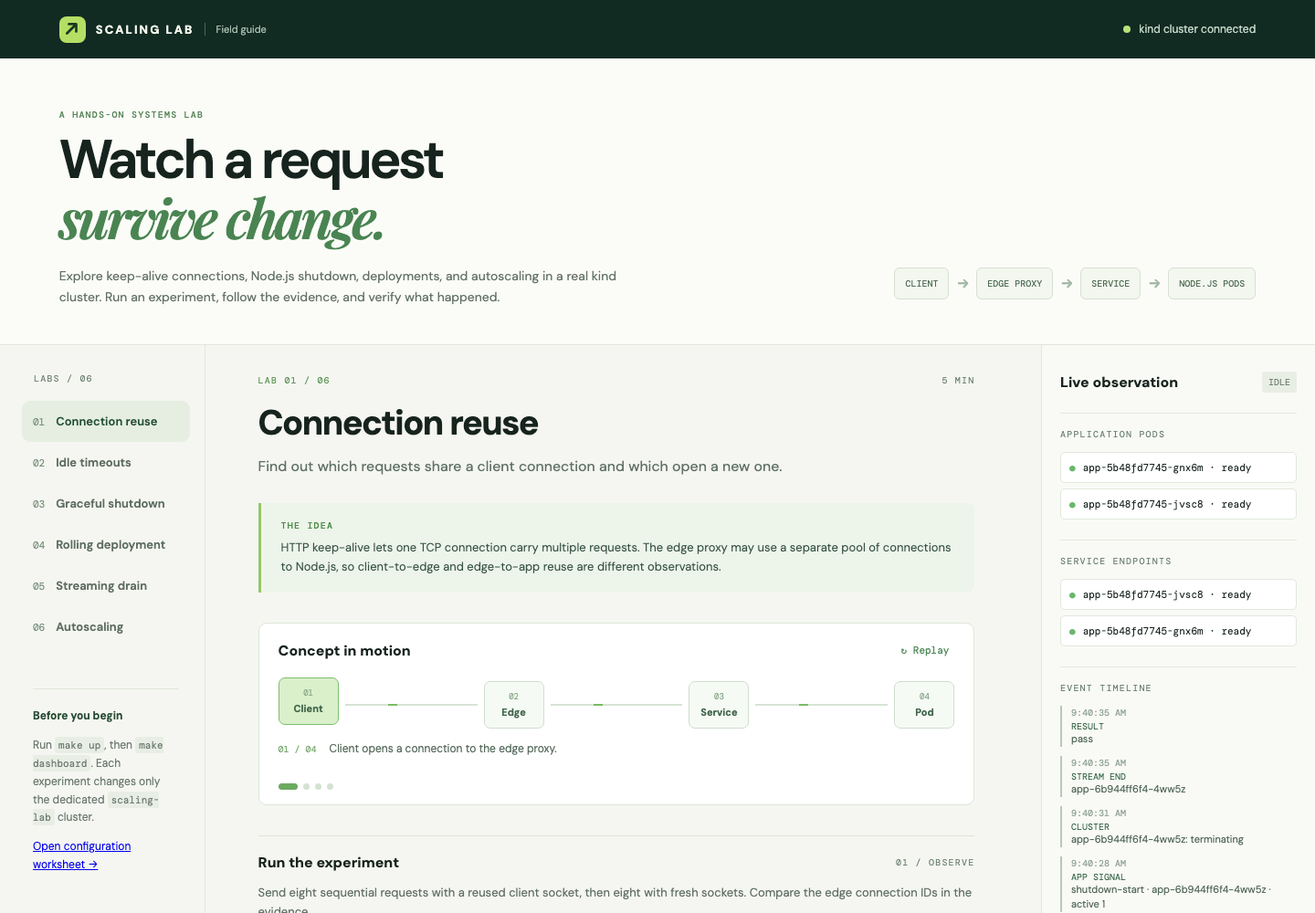
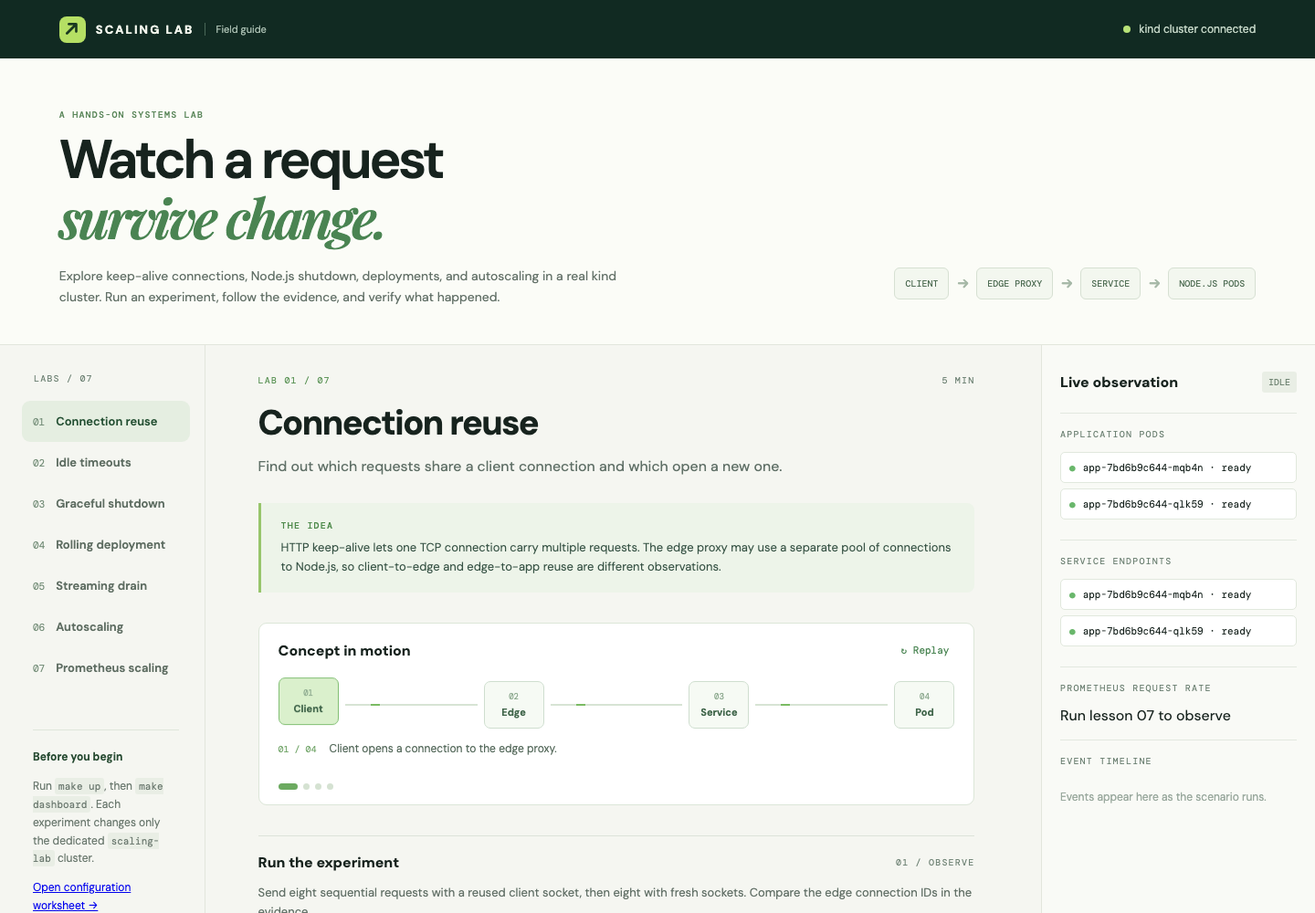
Add Prometheus request-rate autoscaling lab

diff --git a/dashboard/app.js b/dashboard/app.js
@@ -4,12 +4,13 @@ const lessons = [
   { id:'shutdown', title:'Graceful shutdown', time:'2 MIN', intro:'Delete the exact pod serving a long request while new requests continue.', concept:'Pod termination starts a grace deadline. The preStop hook runs before SIGTERM and consumes part of that deadline. Node.js can stop accepting new work while active HTTP requests finish.', task:'Choose graceful or abrupt exit. The runner starts an eight-second request, reads its pod ID, and deletes that pod. Watch the long request and background traffic.', quiz:'Does a failed readiness probe finish requests already in flight?', answers:['Yes, it closes them','No, the application must finish them'], correct:1, why:'Readiness affects endpoint selection for new traffic. The application controls active requests.' },
   { id:'rollout', title:'Rolling deployment', time:'2 MIN', intro:'Replace the application pods while a stream of requests keeps arriving.', concept:'A Deployment can start an extra pod before stopping an old one. Readiness gates traffic to new pods; the shutdown path matters when old pods are removed.', task:'Start a rolling update with maxSurge 1 and maxUnavailable 0. Verify that new pod IDs appear and sampled requests keep succeeding.', quiz:'What does maxUnavailable: 0 require during a rollout?', answers:['No pod may terminate','The required number of available replicas is maintained'], correct:1, why:'Old pods may terminate once replacement capacity becomes available.' },
   { id:'streaming', title:'Streaming drain', time:'2 MIN', intro:'Delete a pod while it is sending a response in pieces.', concept:'A streaming response stays active much longer than a fast JSON response. Graceful shutdown must allow it to finish or set an explicit stream policy and deadline.', task:'Start a 20-tick stream, delete its pod after the first ticks, and verify that every tick arrives before the process exits.', quiz:'Does server.close() instantly terminate an active HTTP stream?', answers:['Yes, it closes all sockets','No, the active response can continue'], correct:1, why:'Node.js stops new connections and waits for active HTTP requests; the shutdown deadline can still force an exit.' },
-  { id:'autoscale', title:'Autoscaling', time:'4 MIN', intro:'Apply CPU load, then watch the HPA add and remove application replicas.', concept:'CPU utilization for HPA is measured relative to container CPU requests. Metrics collection and HPA reconciliation take time; scale down also waits through a stabilization window.', task:'Install metrics-server and enable the HPA with make hpa-up. Run sustained CPU load, then keep sending light traffic as replicas scale down.', quiz:'If the app has no CPU request, can a CPU utilization target be calculated?', answers:['Yes, from the CPU limit','No, utilization needs a request'], correct:1, why:'The HPA uses the resource request as the denominator for CPU utilization.' }
+  { id:'autoscale', title:'Autoscaling', time:'4 MIN', intro:'Apply CPU load, then watch the HPA add and remove application replicas.', concept:'CPU utilization for HPA is measured relative to container CPU requests. Metrics collection and HPA reconciliation take time; scale down also waits through a stabilization window.', task:'Install metrics-server and enable the HPA with make hpa-up. Run sustained CPU load, then keep sending light traffic as replicas scale down.', quiz:'If the app has no CPU request, can a CPU utilization target be calculated?', answers:['Yes, from the CPU limit','No, utilization needs a request'], correct:1, why:'The HPA uses the resource request as the denominator for CPU utilization.' },
+  { id:'prometheus', title:'Prometheus scaling', time:'5 MIN', intro:'Scale from observed HTTP request rate instead of CPU usage.', concept:'Each pod exposes a request counter. Prometheus scrapes those counters and calculates requests per second with PromQL. KEDA reads that query as an external metric and supplies it to a Kubernetes HPA.', task:'Run make prometheus-up first. The experiment sends request traffic, then reduces it. Follow the Prometheus rate, HPA desired replicas, and pod count through scale up and scale down.', quiz:'Which component turns the Prometheus query into a scaling metric for the HPA?', answers:['Prometheus itself','KEDA metrics API server'], correct:1, why:'KEDA queries Prometheus and exposes an external metric. The HPA uses that metric to choose replicas.' }
 ];
 const $ = id => document.getElementById(id);
 let current = 0, lastEventCount = 0;
 function escape(s){return String(s ?? '').replace(/[&<>"']/g,c=>({'&':'&amp;','<':'&lt;','>':'&gt;','"':'&quot;',"'":'&#39;'}[c]));}
-function select(index){current=index;const l=lessons[index];$('lessons').innerHTML=lessons.map((x,i)=>`<button class="lesson-link ${i===index?'active':''}" data-index="${i}"><span class="num">0${i+1}</span>${escape(x.title)}</button>`).join('');document.querySelectorAll('.lesson-link').forEach(x=>x.onclick=()=>select(Number(x.dataset.index)));$('lesson-number').textContent=`LAB 0${index+1} / 06`;$('lesson-time').textContent=l.time;$('lesson-title').textContent=l.title;$('lesson-intro').textContent=l.intro;$('lesson-concept').textContent=l.concept;$('lesson-task').textContent=l.task;$('options').innerHTML=l.id==='shutdown'?'<label class="option-row">Shutdown mode <select id="mode"><option value="graceful">Graceful</option><option value="abrupt">Abrupt (failure demonstration)</option></select></label>':'';$('quiz-question').textContent=l.quiz;$('quiz-options').innerHTML=l.answers.map((x,i)=>`<button class="quiz-choice" data-answer="${i}">${escape(x)}</button>`).join('');$('quiz-feedback').textContent='';document.querySelectorAll('.quiz-choice').forEach(x=>x.onclick=()=>{const right=Number(x.dataset.answer)===l.correct;x.classList.add(right?'correct':'wrong');$('quiz-feedback').textContent=(right?'Correct. ':'Try again. ')+l.why;});$('verdict').innerHTML='<div class="empty">Run the experiment to see evidence and checks.</div>';}
+function select(index){current=index;const l=lessons[index];$('lessons').innerHTML=lessons.map((x,i)=>`<button class="lesson-link ${i===index?'active':''}" data-index="${i}"><span class="num">0${i+1}</span>${escape(x.title)}</button>`).join('');document.querySelectorAll('.lesson-link').forEach(x=>x.onclick=()=>select(Number(x.dataset.index)));$('lesson-number').textContent=`LAB 0${index+1} / 07`;$('lesson-time').textContent=l.time;$('lesson-title').textContent=l.title;$('lesson-intro').textContent=l.intro;$('lesson-concept').textContent=l.concept;$('lesson-task').textContent=l.task;$('options').innerHTML=l.id==='shutdown'?'<label class="option-row">Shutdown mode <select id="mode"><option value="graceful">Graceful</option><option value="abrupt">Abrupt (failure demonstration)</option></select></label>':'';$('quiz-question').textContent=l.quiz;$('quiz-options').innerHTML=l.answers.map((x,i)=>`<button class="quiz-choice" data-answer="${i}">${escape(x)}</button>`).join('');$('quiz-feedback').textContent='';document.querySelectorAll('.quiz-choice').forEach(x=>x.onclick=()=>{const right=Number(x.dataset.answer)===l.correct;x.classList.add(right?'correct':'wrong');$('quiz-feedback').textContent=(right?'Correct. ':'Try again. ')+l.why;});$('verdict').innerHTML='<div class="empty">Run the experiment to see evidence and checks.</div>';}
 function renderResult(result){if(!result||document.querySelector("#verdict .verdict-card"))return;const checks=result.checks.map(x=>`<div class="check"><b class="${x.pass?'':'no'}">${x.pass?'✓':'✕'}</b><span>${escape(x.label)}</span></div>`).join('');$('verdict').innerHTML=`<div class="verdict-card ${escape(result.status)}"><div class="verdict-title">${escape(result.status)}</div>${checks}<details><summary style="margin-top:16px;font-size:11px;cursor:pointer">Show raw evidence</summary><pre class="evidence">${escape(JSON.stringify(result.evidence,null,2))}</pre></details></div>`;}
 function renderEvents(events){const box=$('timeline');if(!events.length){box.innerHTML='<p class="timeline-empty">Events appear here as the scenario runs.</p>';return;}box.innerHTML=events.slice(-80).reverse().map(x=>{const d=x.data||{};let message=d.text||d.pod||d.status||'';if(x.type==='request')message=`${d.ok?'200':'ERROR'} · ${d.pod||'edge'} · ${d.ms||0}ms`;if(x.type==='slow-end')message=`${d.complete?'completed':'interrupted'} · ${d.pod}`;return `<div class="event ${x.type==='error'?'error':''}"><time>${new Date(x.at).toLocaleTimeString()}</time><strong>${escape(x.type.replaceAll('-',' '))}</strong>${escape(message)}</div>`;}).join('');}
 async function refresh(){try{const [state,cluster]=await Promise.all([fetch('/api/state').then(x=>x.json()),fetch('/api/cluster').then(x=>x.json())]);$('cluster-dot').classList.toggle('good',cluster.connected);$('cluster-label').textContent=cluster.connected?'kind cluster connected':'Cluster offline';$('pods').innerHTML=cluster.pods?.length?cluster.pods.map(x=>`<div class="pod ${x.terminating?'terminating':x.ready?'':'not-ready'}" title="${escape(x.name)}">${escape(x.name)} · ${x.terminating?'terminating':x.ready?'ready':'not ready'}</div>`).join(''):'No application pods';$('endpoints').innerHTML=cluster.endpoints?.length?cluster.endpoints.map(x=>`<div class="endpoint ${x.terminating?'terminating':x.ready?'':'not-ready'}" title="${escape(x.pod)}">${escape(x.pod)} · ${x.terminating?'terminating':x.ready?'ready':'not ready'}</div>`).join(''):'No endpoints';$('run').disabled=state.running;$('run-state').textContent=state.error|| (state.running?'Scenario running…':'');$('live-pill').textContent=state.running?'LIVE':'IDLE';if(state.events.length!==lastEventCount){renderEvents(state.events);lastEventCount=state.events.length;}if(state.result&&state.scenario===lessons[current].id)renderResult(state.result);if(state.error&&state.scenario===lessons[current].id)$('verdict').innerHTML=`<div class="empty">${escape(state.error)}</div>`;}catch(error){$('cluster-label').textContent='Dashboard disconnected';}}

diff --git a/dashboard/styles.css b/dashboard/styles.css
@@ -1,2 +1,4 @@
 @import url('https://fonts.googleapis.com/css2?family=DM+Mono:wght@400;500&family=DM+Sans:wght@400;500;600;700&family=Playfair+Display:ital,wght@1,600&display=swap');
 :root{font-family:'DM Sans',system-ui,sans-serif;color:#17231e;background:#f5f6f1}*{box-sizing:border-box}body{margin:0}.topbar{height:64px;background:#112a22;color:#f3f7ed;display:flex;align-items:center;justify-content:space-between;padding:0 4.5%;}.brand{display:flex;align-items:center;gap:11px;font-size:13px;font-weight:700;letter-spacing:.16em}.brand small{font-size:11px;font-weight:400;letter-spacing:0;color:#a8bdb0;border-left:1px solid #4a6758;padding-left:12px}.mark{display:grid;place-items:center;background:#b5df64;color:#193820;width:29px;height:29px;border-radius:8px;font-size:21px}.status{font-size:12px;color:#bfd1c2;display:flex;align-items:center;gap:9px}.dot{width:8px;height:8px;border-radius:50%;background:#e3b874}.dot.good{background:#b8e278}main{max-width:1600px;margin:auto}.hero{padding:45px 4.5% 40px;display:flex;gap:30px;align-items:flex-end;justify-content:space-between;border-bottom:1px solid #e2e6dc;background:#fbfcf7}.eyebrow,.side-label,.micro,.concept-label,.step,.lesson-number,.lesson-time{font-family:'DM Mono',monospace;font-size:10px;letter-spacing:.12em;color:#6f8375}.eyebrow{color:#5b875b;font-weight:500}.hero h1{font-size:clamp(42px,4.1vw,67px);line-height:1.06;letter-spacing:-.055em;margin:12px 0 18px;font-weight:600}.hero em{font-family:'Playfair Display',Georgia,serif;color:#4a8452;font-weight:600}.lede{max-width:620px;color:#637168;line-height:1.65;margin:0;font-size:14px}.topology{display:flex;align-items:center;gap:8px;padding-bottom:9px;white-space:nowrap}.topology span{border:1px solid #d6e0d2;background:#f3f7ef;border-radius:6px;padding:10px 11px;font:10px 'DM Mono',monospace;color:#4d6b52}.topology b{color:#a6b8a7;font-size:15px}.layout{display:grid;grid-template-columns:225px minmax(440px,1fr) 300px;min-height:720px}.sidebar{border-right:1px solid #e2e6dc;padding:30px 16px 24px 24px}.side-label{margin:0 0 18px 13px}.lesson-link{width:100%;border:0;background:transparent;text-align:left;display:flex;gap:12px;align-items:center;padding:14px 12px;border-radius:9px;color:#5e6d62;cursor:pointer;font:600 13px 'DM Sans',sans-serif}.lesson-link:hover{background:#eef3ea}.lesson-link.active{background:#e5eee1;color:#234f32}.lesson-link .num{font:11px 'DM Mono',monospace;color:#78917c}.hint{margin:45px 12px 0;border-top:1px solid #dfe6db;padding-top:20px;color:#6c7a70;font-size:12px;line-height:1.65}.hint strong{color:#264a31}.hint code,code{font:11px 'DM Mono',monospace;background:#e9eee5;padding:2px 4px;border-radius:3px}.workspace{padding:32px clamp(28px,4vw,68px) 80px;max-width:900px}.lesson-head{display:flex;justify-content:space-between}.lesson-number{color:#5c9457}.workspace h2{font-size:38px;letter-spacing:-.04em;margin:15px 0 10px}.intro{color:#607067;line-height:1.65;margin:0 0 26px}.concept{border-left:3px solid #97c56b;background:#edf4e9;padding:18px 22px;margin-bottom:33px;border-radius:0 8px 8px 0}.concept-label{color:#4e8a4b;font-weight:500}.concept p{margin:7px 0 0;line-height:1.62;font-size:13px;color:#375345}.experiment,.verify,.quiz{border-top:1px solid #dce3d9;padding-top:18px;margin-top:26px}.section-head{display:flex;align-items:center;justify-content:space-between}.section-head h3,.observe h3{font-size:16px;margin:0}.experiment>p,.quiz>p{font-size:13px;line-height:1.6;color:#637168}.actions{display:flex;align-items:center;gap:14px;margin-top:20px}.primary{border:0;background:#285c3a;color:white;border-radius:7px;padding:12px 17px;font:600 13px 'DM Sans',sans-serif;cursor:pointer;min-width:150px;display:flex;justify-content:space-between;gap:20px}.primary:hover{background:#1b472a}.primary:disabled{opacity:.55;cursor:wait}#run-state{font-size:12px;color:#64766b}.option-row{display:flex;gap:8px;align-items:center;font-size:13px;color:#475b4d;margin-top:13px}.option-row select{padding:7px;border:1px solid #cfdbcd;border-radius:5px;background:#fff;font:12px 'DM Sans',sans-serif}.empty{padding:24px;border:1px dashed #d1ddcd;border-radius:7px;color:#84928a;font-size:13px;margin-top:14px}.verdict-card{border:1px solid #dce5d9;border-radius:8px;margin-top:14px;padding:18px;background:#fff}.verdict-card.pass{border-color:#a9d79b}.verdict-card.fail{border-color:#e8b5a9}.verdict-card.inconclusive{border-color:#dfcb96}.verdict-title{font-weight:700;text-transform:uppercase;font:12px 'DM Mono',monospace;color:#2f793f}.fail .verdict-title{color:#b55646}.inconclusive .verdict-title{color:#96772f}.check{display:flex;gap:9px;margin-top:12px;font-size:12px;color:#46584d}.check b{color:#4d9d58}.check b.no{color:#bd6655}.evidence{font:11px 'DM Mono',monospace;white-space:pre-wrap;overflow:auto;max-height:210px;background:#f4f6f2;padding:12px;border-radius:5px;color:#506258;margin-top:16px}.quiz-choice{display:block;text-align:left;width:100%;border:1px solid #d9e2d6;background:#fff;border-radius:6px;margin:8px 0;padding:11px 13px;font:12px 'DM Sans',sans-serif;color:#465b4a;cursor:pointer}.quiz-choice:hover{border-color:#75aa6b}.quiz-choice.correct{border-color:#6eb665;background:#ecf8e9}.quiz-choice.wrong{border-color:#d68875;background:#fff2ec}#quiz-feedback{font-weight:600;min-height:20px}.observe{border-left:1px solid #e2e6dc;background:#f9faf6;padding:29px 20px}.observe-title{display:flex;justify-content:space-between;align-items:center;margin-bottom:22px}#live-pill{font:10px 'DM Mono',monospace;background:#e9eee5;color:#6c816f;padding:5px 7px;border-radius:3px}.observe-block{border-top:1px solid #e2e8df;padding:16px 0}.micro{margin:0 0 13px}.pod,.endpoint{font:11px 'DM Mono',monospace;background:white;border:1px solid #e1e8dd;border-radius:5px;padding:9px;margin-bottom:6px;overflow:hidden;text-overflow:ellipsis;white-space:nowrap}.pod:before,.endpoint:before{content:'●';color:#6ab76c;margin-right:8px}.pod.terminating:before,.endpoint.terminating:before{color:#dfae5d}.pod.not-ready:before,.endpoint.not-ready:before{color:#d27667}.timeline-block{height:420px;overflow:auto}#timeline{display:flex;flex-direction:column;gap:10px}.timeline-empty{font-size:12px;color:#9aa99e}.event{border-left:2px solid #b8c8b9;padding-left:10px;font-size:11px;color:#53685a;line-height:1.45}.event strong{display:block;color:#2f6040;font:10px 'DM Mono',monospace;text-transform:uppercase}.event time{color:#95a69a;font:10px 'DM Mono',monospace}.event.error{border-color:#cb7669}@media(max-width:1120px){.layout{grid-template-columns:190px 1fr}.observe{grid-column:2;border-top:1px solid #e2e6dc;display:grid;grid-template-columns:1fr 1fr;gap:14px}.observe-title{grid-column:1/-1}.timeline-block{grid-column:1/-1;height:250px}.topology{display:none}}@media(max-width:700px){.topbar{padding:0 18px}.hero{padding:35px 20px}.layout{display:block}.sidebar{border-right:0;border-bottom:1px solid #e2e6dc;padding:15px}.sidebar nav{display:flex;overflow:auto}.lesson-link{min-width:145px}.hint{display:none}.workspace{padding:28px 20px}.observe{display:block;border-left:0}.status{font-size:10px}}
+
+#prometheus-rate strong{display:block;font-size:16px;font-weight:600;color:#376d43}.rate-chart{display:block;width:100%;height:85px;margin-top:7px;background:#f0f5ed;border-radius:4px}

diff --git a/dashboard/index.html b/dashboard/index.html
@@ -18,7 +18,7 @@
       <div class="topology" aria-label="Traffic path"><span>CLIENT</span><b>→</b><span>EDGE PROXY</span><b>→</b><span>SERVICE</span><b>→</b><span>NODE.JS PODS</span></div>
     </section>
     <div class="layout">
-      <aside class="sidebar"><p class="side-label">LABS / 06</p><nav id="lessons"></nav><div class="hint"><strong>Before you begin</strong><p>Run <code>make up</code>, then <code>make dashboard</code>. Each experiment changes only the dedicated <code>scaling-lab</code> cluster.</p><p><a href="/worksheet">Open configuration worksheet →</a></p></div></aside>
+      <aside class="sidebar"><p class="side-label">LABS / 07</p><nav id="lessons"></nav><div class="hint"><strong>Before you begin</strong><p>Run <code>make up</code>, then <code>make dashboard</code>. Each experiment changes only the dedicated <code>scaling-lab</code> cluster.</p><p><a href="/worksheet">Open configuration worksheet →</a></p></div></aside>
       <section class="workspace">
         <div class="lesson-head"><span id="lesson-number" class="lesson-number"></span><span id="lesson-time" class="lesson-time"></span></div>
         <h2 id="lesson-title"></h2><p id="lesson-intro" class="intro"></p>
@@ -28,10 +28,11 @@
         <div class="verify"><div class="section-head"><h3>Verification</h3><span class="step">02 / CHECK</span></div><div id="verdict" class="empty">Run the experiment to see evidence and checks.</div></div>
         <div class="quiz"><div class="section-head"><h3>Check your understanding</h3><span class="step">03 / EXPLAIN</span></div><p id="quiz-question"></p><div id="quiz-options"></div><p id="quiz-feedback" aria-live="polite"></p></div>
       </section>
-      <aside class="observe"><div class="observe-title"><h3>Live observation</h3><span id="live-pill">IDLE</span></div><div class="observe-block"><p class="micro">APPLICATION PODS</p><div id="pods">Waiting for cluster…</div></div><div class="observe-block"><p class="micro">SERVICE ENDPOINTS</p><div id="endpoints">—</div></div><div class="observe-block timeline-block"><p class="micro">EVENT TIMELINE</p><div id="timeline"><p class="timeline-empty">Events appear here as the scenario runs.</p></div></div></aside>
+      <aside class="observe"><div class="observe-title"><h3>Live observation</h3><span id="live-pill">IDLE</span></div><div class="observe-block"><p class="micro">APPLICATION PODS</p><div id="pods">Waiting for cluster…</div></div><div class="observe-block"><p class="micro">SERVICE ENDPOINTS</p><div id="endpoints">—</div></div><div class="observe-block"><p class="micro">PROMETHEUS REQUEST RATE</p><div id="prometheus-rate">Run lesson 07 to observe</div></div><div class="observe-block timeline-block"><p class="micro">EVENT TIMELINE</p><div id="timeline"><p class="timeline-empty">Events appear here as the scenario runs.</p></div></div></aside>
     </div>
   </main>
   <script type="module" src="/app.js"></script>
   <script type="module" src="/diagram.js"></script>
+  <script type="module" src="/prometheus-ui.js"></script>
 </body>
 </html>

diff --git a/dashboard/diagram.js b/dashboard/diagram.js
@@ -34,6 +34,12 @@ const frames = [
     ['Metrics-server reports CPU usage relative to requests.', 2, 'still'],
     ['The HPA asks the Deployment for more replicas.', 2, 'play'],
     ['New ready pods share subsequent requests.', 3, 'play']
+  ],
+  [
+    ['App pods count each HTTP request and expose /metrics.', 0, 'play'],
+    ['Prometheus scrapes every app pod and calculates total requests per second.', 1, 'play'],
+    ['KEDA queries Prometheus and offers that rate as an external HPA metric.', 2, 'play'],
+    ['The HPA changes replica count; each pod gets a share of traffic.', 3, 'play']
   ]
 ];
 let lesson = 0, step = 0, timer;
@@ -44,7 +50,9 @@ function draw() {
   document.getElementById('diagram-text').textContent = caption;
   const track = document.getElementById('diagram-track');
   track.className = `diagram-track ${motion}`;
+  const labels = lesson === 6 ? ['App', 'Prometheus', 'KEDA', 'HPA'] : ['Client', 'Edge', 'Service', 'Pod'];
   nodes.forEach((node, index) => {
+    node.lastChild.textContent = labels[index];
     node.classList.toggle('active', index === active);
     node.classList.toggle('drain', (lesson === 2 || lesson === 3 || lesson === 4) && step === 2 && index === 3);
     node.classList.toggle('gone', lesson === 2 && step === 3 && index === 3);

diff --git a/dashboard/prometheus-ui.js b/dashboard/prometheus-ui.js
@@ -1,0 +1,15 @@
+const output = document.getElementById('prometheus-rate');
+async function update() {
+  try {
+    const state = await fetch('/api/state').then(response => response.json());
+    if (state.scenario !== 'prometheus') { output.textContent = 'Run lesson 07 to observe'; return; }
+    const samples = state.events.filter(event => event.type === 'prometheus' && Number.isFinite(event.data?.rps)).slice(-40);
+    if (!samples.length) { output.textContent = 'Waiting for samples…'; return; }
+    const latest = samples.at(-1).data.rps;
+    const ceiling = Math.max(15, ...samples.map(event => event.data.rps));
+    const points = samples.map((event, index) => `${8 + index * 264 / Math.max(1, samples.length - 1)},${78 - event.data.rps * 68 / ceiling}`).join(' ');
+    output.innerHTML = `<strong>${latest.toFixed(1)} requests / second</strong><svg class="rate-chart" viewBox="0 0 280 90" role="img" aria-label="Recent Prometheus request rate"><line x1="8" y1="78" x2="272" y2="78" stroke="#cbd8ca"/><polyline points="${points}" fill="none" stroke="#4a8452" stroke-width="3" stroke-linecap="round" stroke-linejoin="round"/></svg>`;
+  } catch { output.textContent = 'Metric unavailable'; }
+}
+update();
+setInterval(update, 2000);

diff --git a/README.md b/README.md
@@ -1,12 +1,12 @@
 # Scaling Lab
 
-A guided local lab for HTTP connection reuse, Node.js graceful shutdown, Kubernetes rollouts, and CPU autoscaling. The web dashboard pairs each experiment with a live pod/endpoint view, request timeline, conceptual question, and evidence-backed verification result.
+A guided local lab for HTTP connection reuse, Node.js graceful shutdown, Kubernetes rollouts, CPU autoscaling, and Prometheus request-rate autoscaling. The web dashboard pairs each experiment with a live pod/endpoint view, request timeline, conceptual question, and evidence-backed verification result.
 
 ![Scaling Lab dashboard](docs/dashboard.png)
 
 ## Requirements
 
-- Docker-compatible daemon, `kind`, `kubectl`, `make`, `curl`, and Node.js 22 or later
+- Docker-compatible daemon, `kind`, `kubectl`, `make`, `curl`, `helm`, and Node.js 22 or later for the Prometheus lesson
 - About 4 GB free memory and network access for the first image pulls
 - Port 8080 (lab proxy) and 4173 (dashboard) available on localhost
 
@@ -27,6 +27,27 @@ colima ssh -- sudo sysctl -w fs.inotify.max_user_instances=1024
 
 For the autoscaling lesson, run `make hpa-up` first. This installs the pinned metrics-server release and sets `--kubelet-insecure-tls` for the local kind cluster, then creates the CPU HPA. Give metrics collection a minute before running the experiment.
 
+For the Prometheus lesson, run `make prometheus-up`. It deploys a local Prometheus, installs KEDA 2.17.3, and creates a ScaledObject that scales the app toward **5 requests/second per pod**. This target is intentionally low for a laptop experiment; measure your own service before choosing a production target. The two autoscaling lessons use separate HPAs for the same Deployment, so each setup removes the other lesson's scaler. Run `make hpa-up` to switch back to CPU scaling. Prometheus data is stored only in its pod and disappears if that pod is replaced.
+
+```sh
+make prometheus-up
+make dashboard
+```
+
+In another terminal, `make prometheus-ui` optionally opens a port-forward for Prometheus at <http://127.0.0.1:19090>.
+
+In Prometheus, inspect **Status → Target health** and query `sum(rate(scaling_lab_http_requests_total{job="scaling-app"}[30s]))`. App pods expose the counter at `/metrics`. Prometheus scrapes each pod every five seconds, KEDA reads the query, and its generated HPA changes the Deployment replica count. The dashboard shows the measured rate alongside pod and HPA state while lesson 07 runs.
+
+```mermaid
+flowchart LR
+    T[Lab request traffic] --> A[Node.js app pods]
+    A -->|/metrics request counters| P[Prometheus]
+    P -->|PromQL total requests per second| K[KEDA]
+    K -->|external metric| H[Kubernetes HPA]
+    H -->|desired replicas| D[App Deployment]
+    D --> A
+```
+
 ```sh
 make reset    # restore the baseline app configuration and remove the HPA
 make test     # verifier unit tests
@@ -45,10 +66,11 @@ make down     # delete only the scaling-lab kind cluster
 | Rolling deployment | Change a pod-template environment variable under traffic | A new pod serves traffic and sampled requests have no failures |
 | Streaming drain | Delete a pod during a 20-tick response | The stream completes with all 20 ticks |
 | Autoscaling | Sustain CPU-intensive requests, then stop the load | The HPA adds replicas, returns to baseline, and sampled scale-down requests succeed |
+| Prometheus scaling | Sustain HTTP requests, then reduce the rate | Prometheus scrapes both starting pods, observes over 10 requests/second, the KEDA HPA adds replicas and returns to baseline, and sampled requests succeed |
 
 Checks may return **inconclusive** if the intended race or enough traffic was not observed. The result includes raw request and pod evidence. A passing local experiment is evidence for this topology and workload, not a guarantee for a different ingress, service mesh, or cloud load balancer.
 
-You can run any lesson without the browser using `make verify SCENARIO=shutdown MODE=graceful` (or `connections`, `timeouts`, `rollout`, `streaming`, `autoscale`). The command writes a JSON evidence report under `results/` and exits nonzero for a failed or inconclusive check.
+You can run any lesson without the browser using `make verify SCENARIO=shutdown MODE=graceful` (or `connections`, `timeouts`, `rollout`, `streaming`, `autoscale`, `prometheus`). The command writes a JSON evidence report under `results/` and exits nonzero for a failed or inconclusive check. Run the relevant setup target before either autoscaling verifier.
 
 Use the dashboard's **configuration worksheet** after the lessons. It checks shutdown timing and compares measured per-pod capacity with peak demand and HPA replica limits. It exports a JSON record of your choices. The worksheet is a consistency check; rerun live experiments with the actual settings before applying them elsewhere.
 
@@ -63,7 +85,7 @@ The app is configured with a two-second `preStop`, a 30-second pod grace period,
 ```text
 app/          Instrumented Node.js service and Dockerfile
 dashboard/    Guided UI, scenario runner, and verifier
-k8s/          kind, Deployment, Service, proxy, and HPA manifests
+k8s/          kind, app, proxy, Prometheus, and scaler manifests
 Makefile      Setup, reset, test, and teardown commands
 ```
 
@@ -75,4 +97,7 @@ The dashboard binds to `127.0.0.1` and exposes only predefined scenarios against
 - [Kubernetes pod and endpoint termination flow](https://kubernetes.io/docs/tutorials/services/pods-and-endpoint-termination-flow/)
 - [Kubernetes container lifecycle hooks](https://kubernetes.io/docs/concepts/containers/container-lifecycle-hooks/)
 - [Kubernetes HPA behavior](https://kubernetes.io/docs/concepts/workloads/autoscaling/horizontal-pod-autoscale/)
+- [Prometheus scrape configuration](https://prometheus.io/docs/prometheus/latest/configuration/configuration/)
+- [KEDA Prometheus scaler](https://keda.sh/docs/2.17/scalers/prometheus/)
+- [KEDA ScaledObject behavior](https://keda.sh/docs/2.17/reference/scaledobject-spec/)
 - [kind cluster configuration](https://kind.sigs.k8s.io/docs/user/configuration/)
